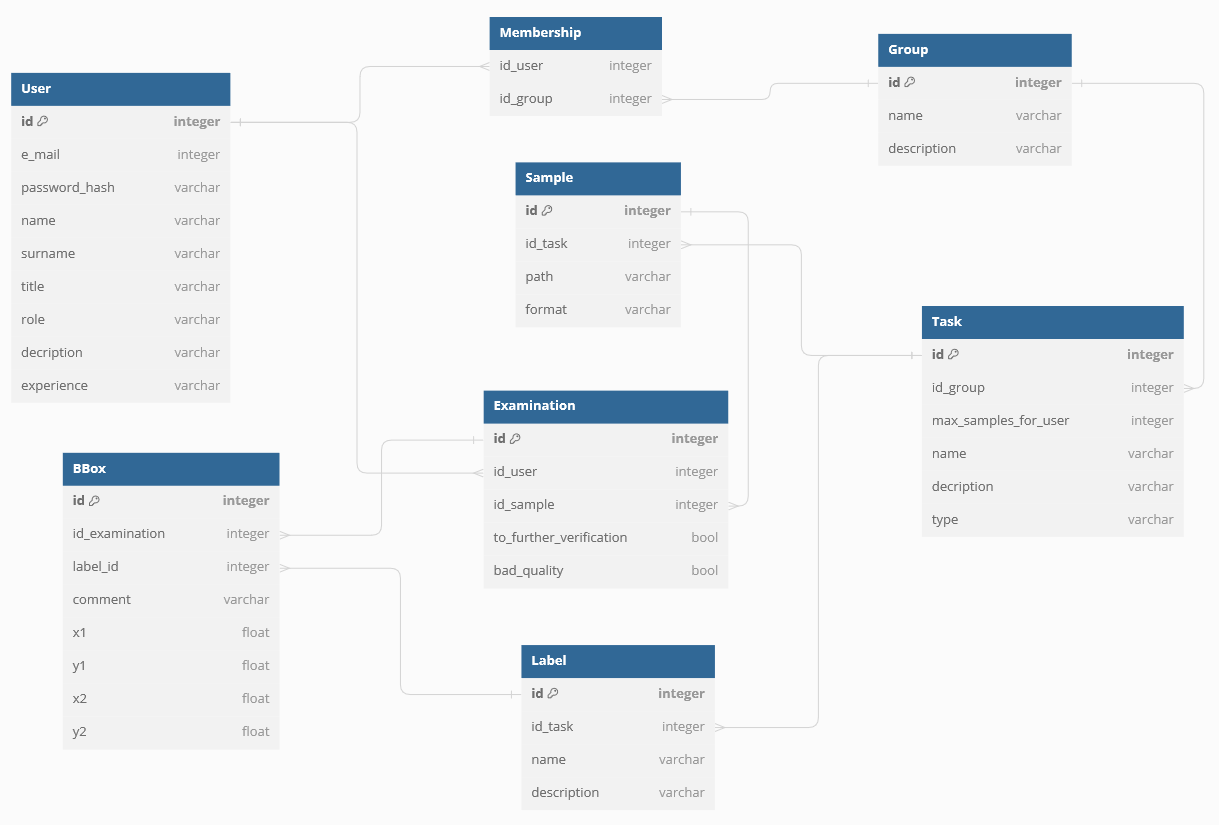
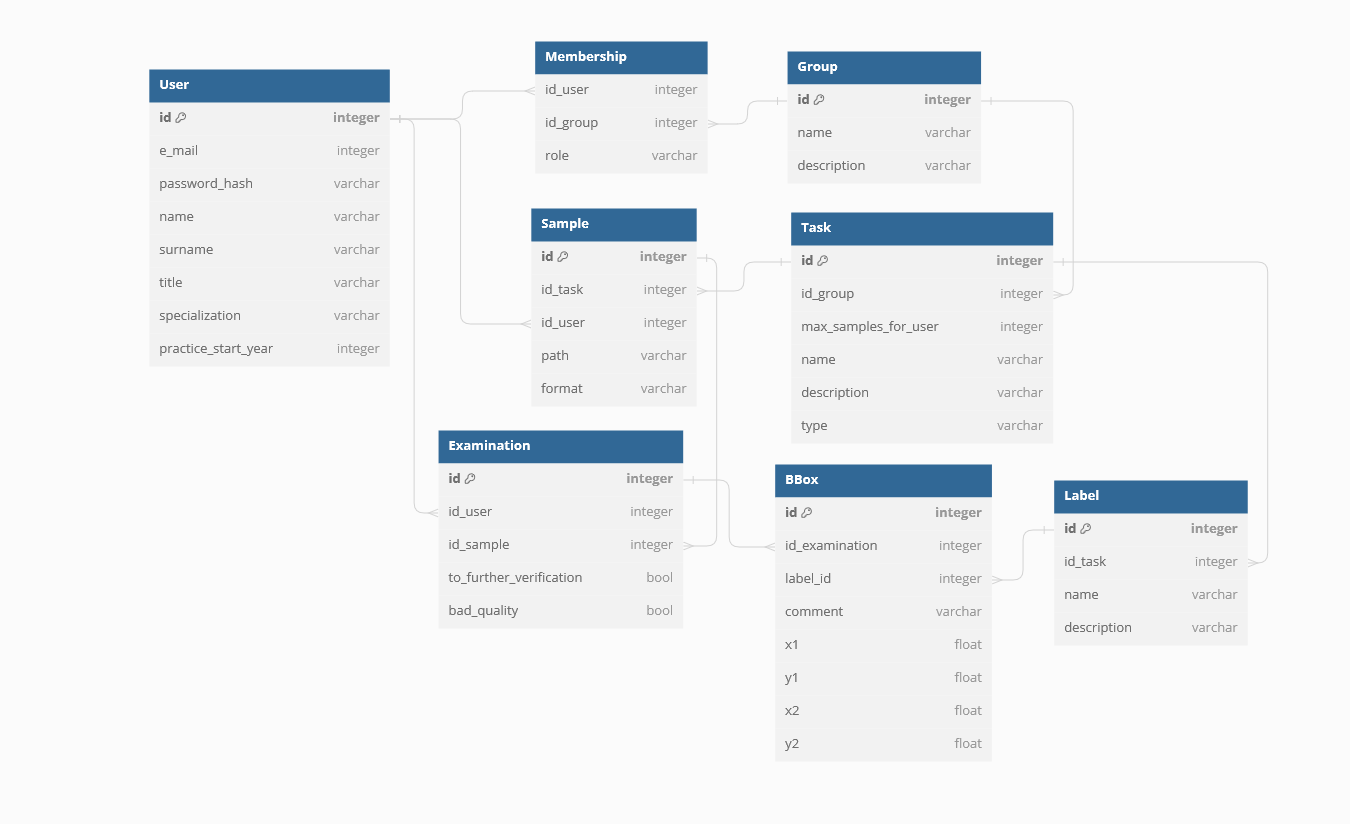
Fix: db add Sample-User relationship (#12)
* fix: update models with User/Sample relationship and sql

* docs:  update diagram for readme

* update: readme

* docs: update dbdiagram.txt

diff --git a/backend/models/models.py b/backend/models/models.py
@@ -17,8 +17,7 @@ class User(Base):
     password_hash = mapped_column(String, nullable=False)
     name = mapped_column(String)
     surname = mapped_column(String)
-    title = mapped_column(String)
-    
+    title = mapped_column(String)    
     specialization = mapped_column(String)
     practice_start_year = mapped_column(Integer)
 
@@ -83,12 +82,14 @@ class Sample(Base):
 
     id = mapped_column(Integer, primary_key=True)
     id_task = mapped_column(Integer, ForeignKey("Task.id"), nullable=False)
+    id_user = mapped_column(Integer, ForeignKey("User.id"), nullable=True)
     path = mapped_column(String)
     format = mapped_column(String)
 
     # Define the many-to-one relationship with Task
     Task = relationship("Task", back_populates="Sample")
-
+    # Define the many-to-one relationship with User
+    User = relationship("User", back_populates="Sample")
     # Define the one-to-many relationship with Examination
     Examination = relationship("Examination", back_populates="Sample")
 

diff --git a/README.md b/README.md
@@ -71,7 +71,9 @@ The structure of the database is as follows:
 - Fields: id, id_task, path, format
 - Purpose: Represents samples, which contain information about added photos to be examined.
 - Relationships: 
-  - Many-to-One with Task       
+  - Many-to-One with Task
+  - Many-to-One with User - each sample has a user that it was firstly assigned to
+  - One-to-Many with Examination - each sample might have different examination by different users, with different BBox        
 
 **Examination:**
 - Fields: id, id_user, id_sample, to_further_verification, bad_quality
